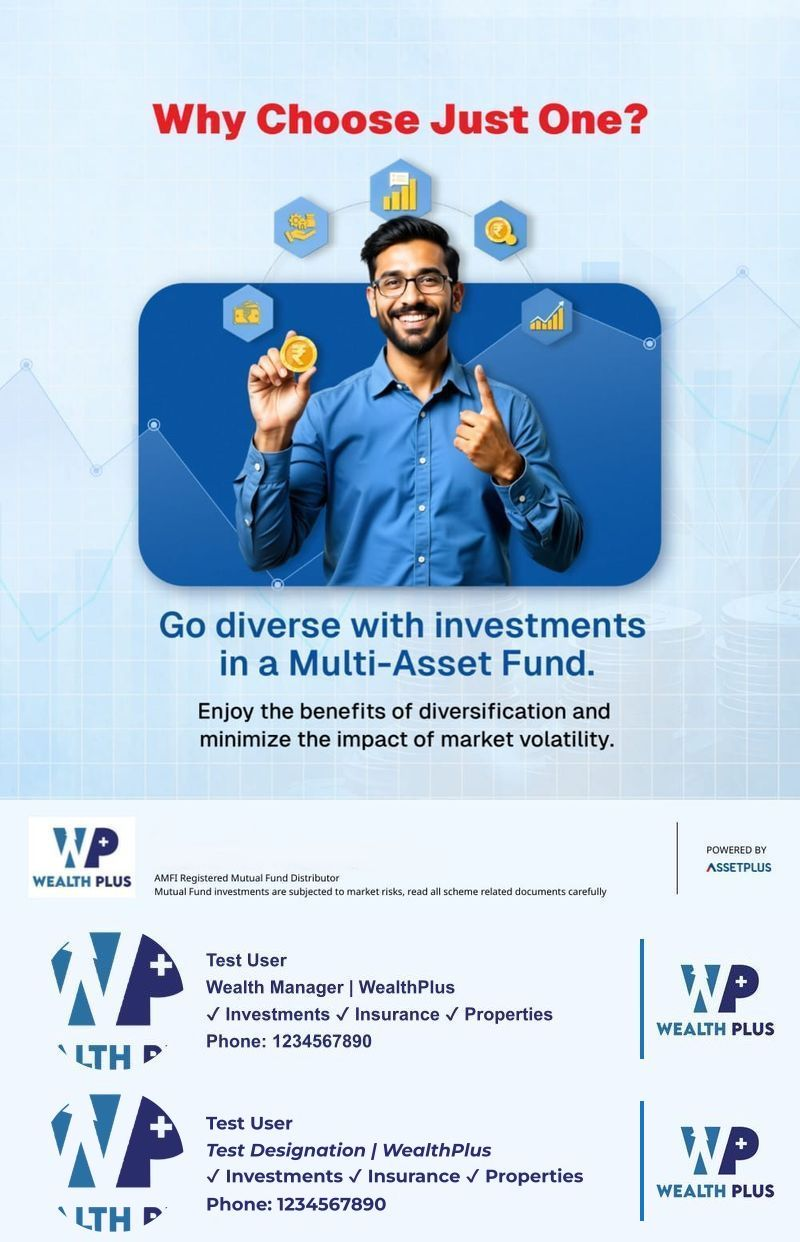
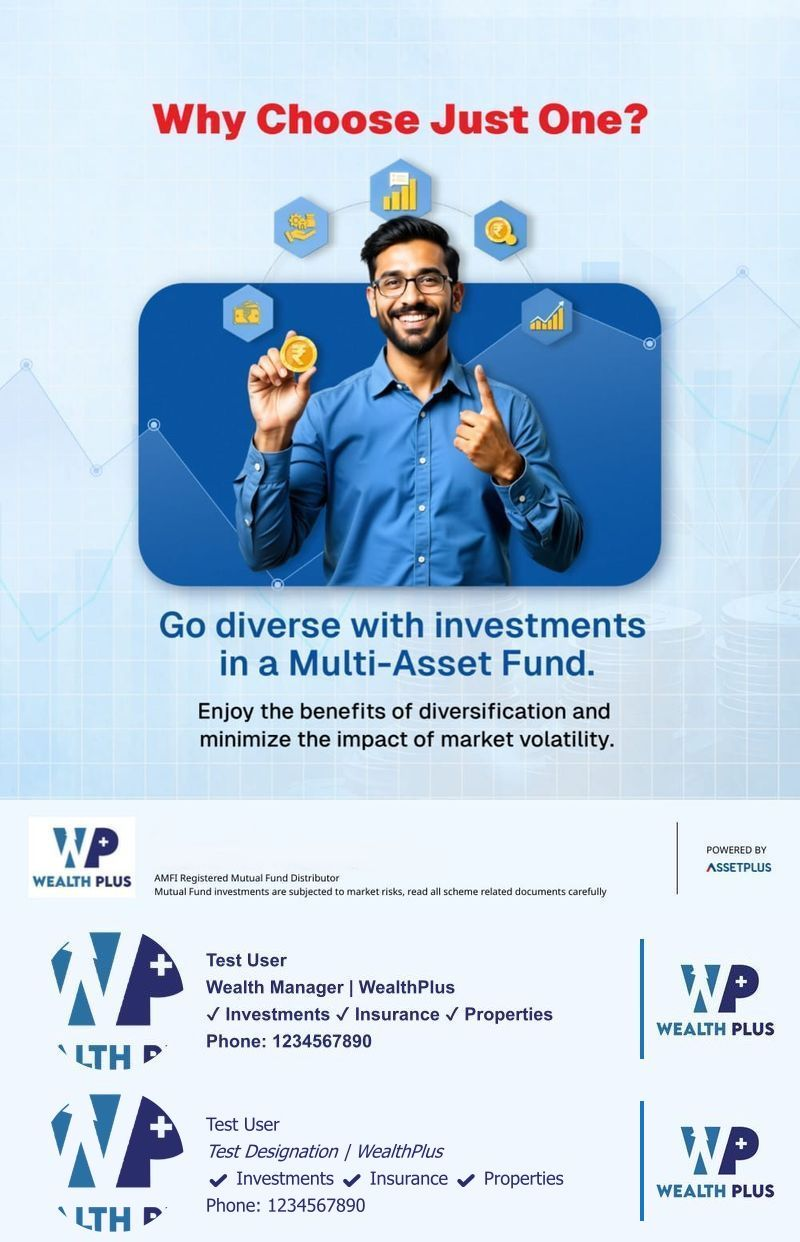
prodcutin

Changed region(s): [[0.25, 0.8873, 0.7188, 0.9791]]

diff --git a/server/utils/image.js b/server/utils/image.js
@@ -1,10 +1,11 @@
 const sharp = require('sharp');
+const { createCanvas, registerFont } = require('canvas');
 const fs = require('fs');
 const path = require('path');
 
 /* -------------------------------
     ✅ FIXED: SAFE FONT LOADING
- -------------------------------- */
+  -------------------------------- */
 const fontPath = path.join(__dirname, '../assets/fonts/NotoSans-Regular.ttf');
 const italicFontPath = path.join(__dirname, '../Noto_Sans/static/NotoSans-Italic.ttf');
 
@@ -33,108 +34,19 @@ try {
    console.error('❌ ERROR reading italic font file:', e.message);
 }
 
-
-/**
- * Generates an SVG containing text information.
- */
-function generateFooterSVG(name, designation, phone, textWidth, footerHeight, fontSize, isTeamName = false) {
-  console.log('DEBUG generateFooterSVG called with:', { name, designation, phone, textWidth, footerHeight, fontSize, isTeamName });
-
-  const totalLines = 4;
-  const lineHeight = Math.round(fontSize * 1.5);
-  const totalHeight = lineHeight * totalLines;
-  const verticalPadding = (footerHeight - totalHeight) / 2;
-  const startY = verticalPadding + lineHeight * 0.6;
-  const textPadding = 2;
-  const MIN_FONT_SIZE = 12;
-  const allFontSizeInitial = Math.max(fontSize, 18);
-  let allFontSize = allFontSizeInitial;
-
-  const normalizeDesignation = (d) => {
-    if (!d) return 'N/A | WealthPlus';
-    const dl = d.toLowerCase();
-    if (dl.includes('wealth')) return 'Wealth Manager | WealthPlus';
-    if (dl.includes('health')) return 'Health Insurance Advisor | WealthPlus';
-    return `${d.replace(/\s+/g, ' ').trim()} | WealthPlus`;
-  };
-
-  const formattedDesignation = isTeamName
-    ? (String(designation || '').trim())
-    : normalizeDesignation(designation || '');
-
-  const escapeXml = (unsafe) => String(unsafe)
-    .replace(/&/g, '&amp;')
-    .replace(/</g, '&lt;')
-    .replace(/>/g, '&gt;')
-    .replace(/"/g, '&quot;')
-    .replace(/'/g, '&apos;');
-
-  const lines = [
-    String(name || ''),
-    formattedDesignation,
-    `✔ Investments ✔ Insurance ✔ Properties`,
-    `Phone: ${String(phone || '')}`,
-  ].map(l => escapeXml(l));
-
-  const maxTextWidth = Math.max(10, textWidth - textPadding * 2);
-  const approxCharWidth = 0.55;
-
-  const fitsAtSize = (size) => {
-    const charWidth = size * approxCharWidth;
-    return lines.every(line => (line.length * charWidth) <= maxTextWidth);
-  };
-
-  while (allFontSize > MIN_FONT_SIZE && !fitsAtSize(allFontSize)) {
-    allFontSize = Math.max(MIN_FONT_SIZE, Math.floor(allFontSize * 0.92));
-    if (allFontSize <= MIN_FONT_SIZE) break;
-  }
-
-  let svgLines = [];
-  let y = startY;
-  for (let i = 0; i < lines.length; i++) {
-    if (i === 1) {
-      svgLines.push(`<text x="${textPadding}" y="${y}" class="footertext italic">${lines[i]}</text>`);
-    } else {
-      svgLines.push(`<text x="${textPadding}" y="${y}" class="footertext">${lines[i]}</text>`);
-    }
-    y += lineHeight;
-  }
-
-  const svg = `
-    <svg width="${textWidth}" height="${footerHeight}" xmlns="http://www.w3.org/2000/svg">
-      <defs>
-        <style type="text/css">
-          @font-face {
-            font-family: 'Noto Sans';
-            src: url('data:font/ttf;base64,${fontBase64}') format('truetype');
-            font-weight: normal;
-            font-style: normal;
-          }
-          @font-face {
-            font-family: 'Noto Sans';
-            src: url('data:font/ttf;base64,${italicFontBase64}') format('truetype');
-            font-weight: normal;
-            font-style: italic;
-          }
-          .footertext {
-            font-family: 'Noto Sans', sans-serif;
-            fill: #292d6c;
-            font-weight: bold;
-            font-size: ${allFontSize}px;
-            text-anchor: start;
-            dominant-baseline: middle;
-          }
-          .footertext.italic {
-            font-style: italic;
-          }
-        </style>
-      </defs>
-      ${svgLines.join('\n')}
-    </svg>
-  `;
-
-  return svg;
+try {
+   registerFont(fontPath, { family: 'Noto Sans', weight: 'normal', style: 'normal' });
+   console.log('✅ Regular font registered.');
+} catch (e) {
+   console.error('❌ ERROR registering regular font:', e.message);
 }
+try {
+   registerFont(italicFontPath, { family: 'Noto Sans', weight: 'normal', style: 'italic' });
+   console.log('✅ Italic font registered.');
+} catch (e) {
+   console.error('❌ ERROR registering italic font:', e.message);
+}
+
 
 
 /**
@@ -155,6 +67,7 @@ async function processCircularImage(inputPath, outputPath, size) {
 
   fs.writeFileSync(outputPath, buffer);
 }
+
 
 
 /**
@@ -208,17 +121,63 @@ async function createFinalPoster({ templatePath, person, logoPath, outputPath })
     const footerHeight = Math.max(photoSize, requiredTextHeight, logoSize) + 18;
 
     const isTeamName = Boolean(person.teamName && String(person.teamName).trim());
-    const footerSVG = generateFooterSVG(
-      person.name,
-      isTeamName ? person.teamName : person.designation,
-      person.phone,
-      textWidth,
-      footerHeight,
-      fontSize,
-      isTeamName
-    );
+    const normalizeDesignation = (d) => {
+      if (!d) return 'N/A | WealthPlus';
+      const dl = d.toLowerCase();
+      if (dl.includes('wealth')) return 'Wealth Manager | WealthPlus';
+      if (dl.includes('health')) return 'Health Insurance Advisor | WealthPlus';
+      return `${d.replace(/\s+/g, ' ').trim()} | WealthPlus`;
+    };
 
-    const textBuffer = await sharp(Buffer.from(footerSVG)).png().toBuffer();
+    const formattedDesignation = isTeamName
+      ? (String(person.teamName || '').trim())
+      : normalizeDesignation(person.designation || '');
+
+    const lines = [
+      String(person.name || ''),
+      formattedDesignation,
+      `✔ Investments ✔ Insurance ✔ Properties`,
+      `Phone: ${String(person.phone || '')}`,
+    ];
+
+    const maxTextWidth = Math.max(10, textWidth - 2 * 2);
+    const approxCharWidth = 0.55;
+
+    const fitsAtSize = (size) => {
+      const charWidth = size * approxCharWidth;
+      return lines.every(line => (line.length * charWidth) <= maxTextWidth);
+    };
+
+    let allFontSize = Math.max(fontSize, 18);
+    const MIN_FONT_SIZE = 12;
+    while (allFontSize > MIN_FONT_SIZE && !fitsAtSize(allFontSize)) {
+      allFontSize = Math.max(MIN_FONT_SIZE, Math.floor(allFontSize * 0.92));
+      if (allFontSize <= MIN_FONT_SIZE) break;
+    }
+
+    const totalLines = 4;
+    const textLineHeight = Math.round(allFontSize * 1.5);
+    const totalHeight = textLineHeight * totalLines;
+    const verticalPadding = (footerHeight - totalHeight) / 2;
+    const startY = verticalPadding + textLineHeight * 0.6;
+    const textPadding = 2;
+
+    const canvas = createCanvas(textWidth, footerHeight);
+    const ctx = canvas.getContext('2d');
+    ctx.textBaseline = 'middle';
+    ctx.fillStyle = '#292d6c';
+    let y = startY;
+    for (let i = 0; i < lines.length; i++) {
+      if (i === 1) {
+        ctx.font = `bold italic ${allFontSize}px "Noto Sans"`;
+      } else {
+        ctx.font = `bold ${allFontSize}px "Noto Sans"`;
+      }
+      ctx.fillText(lines[i], textPadding, y);
+      y += textLineHeight;
+    }
+
+    const textBuffer = canvas.toBuffer('image/png');
     const textMetadata = await sharp(textBuffer).metadata();
 
     const circularPhoto = await sharp(person.photo)
@@ -297,7 +256,6 @@ async function createFinalPoster({ templatePath, person, logoPath, outputPath })
 }
 
 module.exports = {
-  generateFooterSVG,
   processCircularImage,
   createFinalPoster,
 };
